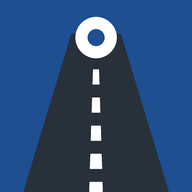
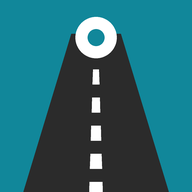
Add files via upload

diff --git a/index.html b/index.html
@@ -3,7 +3,7 @@
 <head>
 <meta charset="utf-8">
 <meta name="viewport" content="width=device-width, initial-scale=1, viewport-fit=cover">
-<meta name="theme-color" content="#1d4f91">
+<meta name="theme-color" content="#11879a">
 <meta name="apple-mobile-web-app-capable" content="yes">
 <meta name="mobile-web-app-capable" content="yes">
 <meta name="apple-mobile-web-app-status-bar-style" content="black-translucent">
@@ -11,27 +11,31 @@
 <link rel="manifest" href="manifest.webmanifest">
 <link rel="apple-touch-icon" href="icon-192.png">
 <link rel="icon" href="icon-192.png">
+<link rel="preconnect" href="https://fonts.googleapis.com">
+<link rel="preconnect" href="https://fonts.gstatic.com" crossorigin>
+<link href="https://fonts.googleapis.com/css2?family=Raleway:ital,wght@0,400;0,500;0,600;0,700;1,400&display=swap" rel="stylesheet">
 <title>Rittenregistratie</title>
 <style>
 :root{
-  --paper:#eef1f4; --card:#ffffff; --ink:#16202b; --muted:#5d6b78; --line:#d6dde4;
-  --sign:#1d4f91; --sign-ink:#ffffff; --sign-soft:#e2eaf5;
-  --odo-bg:#121a23; --odo-ink:#f4f7fa; --danger:#b3261e;
-  --r-lg:16px; --r-sm:10px;
+  --paper:#f4f7f8; --card:#ffffff; --ink:#2b2b2b; --muted:#6e6e6e; --line:#e2e7e9;
+  --sign:#11879a; --sign-ink:#ffffff; --sign-soft:#e2f1f3; --head:#11879a;
+  --danger:#b3261e; --shadow:0 2px 12px rgba(20,40,45,.09);
+  --r-lg:12px; --r-sm:10px;
   color-scheme:light dark;
 }
 @media (prefers-color-scheme:dark){
   :root{
-    --paper:#0f151c; --card:#18212b; --ink:#e6ebf0; --muted:#97a4b1; --line:#2a3644;
-    --sign:#5b8fd6; --sign-ink:#0b1420; --sign-soft:#1c2a3c;
-    --odo-bg:#05080c; --odo-ink:#f4f7fa; --danger:#ef7a72;
+    --paper:#0f1719; --card:#182326; --ink:#e7eced; --muted:#9db0b4; --line:#26363a;
+    --sign:#3fb0c1; --sign-ink:#08181b; --sign-soft:#16343a; --head:#5cc3d2;
+    --danger:#ef7a72; --shadow:0 2px 12px rgba(0,0,0,.35);
   }
 }
 *{box-sizing:border-box}
 html,body{margin:0;height:100%}
 body{
   background:var(--paper); color:var(--ink);
-  font:16px/1.45 system-ui,-apple-system,"Segoe UI",Roboto,sans-serif;
+  font:16px/1.5 "Raleway",system-ui,-apple-system,"Segoe UI",Roboto,sans-serif;
+  font-variant-numeric:lining-nums;
   -webkit-tap-highlight-color:transparent;
   padding-bottom:calc(78px + env(safe-area-inset-bottom,0px));
 }
@@ -41,46 +45,53 @@ button,input,select{font:inherit;color:inherit}
 /* Header met kilometerteller */
 header{
   background:var(--sign); color:var(--sign-ink);
-  padding:calc(14px + env(safe-area-inset-top,0px)) 18px 18px;
+  padding:calc(14px + env(safe-area-inset-top,0px)) 18px 14px;
 }
-header .top{display:flex;justify-content:space-between;align-items:baseline;gap:12px}
-header h1{margin:0;font-size:1.15rem;font-weight:700;letter-spacing:.01em}
-header .month{font-size:.9rem;opacity:.85}
-.odo{display:flex;align-items:flex-end;gap:10px;margin-top:12px}
-.odo .digits{display:flex;gap:3px}
-.odo .d{
-  background:var(--odo-bg);color:var(--odo-ink);
-  min-width:30px;height:44px;border-radius:5px;
-  display:grid;place-items:center;
-  font-size:1.7rem;font-weight:600;font-variant-numeric:tabular-nums;
-  box-shadow:inset 0 -10px 12px rgba(255,255,255,.06),inset 0 10px 12px rgba(0,0,0,.35);
-}
-.odo .d.dec{background:#f4f7fa;color:#121a23}
-.odo .unit{font-size:.95rem;padding-bottom:4px;opacity:.9}
+header{display:flex;align-items:center;justify-content:space-between;gap:12px}
+header img{height:42px;width:auto;display:block}
+header h1{margin:0;font-size:1.05rem;font-weight:600;opacity:.95}
 
 main{padding:16px;max-width:680px;margin:0 auto}
-h2{font-size:1.25rem;margin:4px 0 14px}
-h3{font-size:1rem;margin:0 0 8px}
+h2{font-size:1.45rem;font-weight:700;color:var(--head);margin:4px 0 14px}
+h3{font-size:1.02rem;font-weight:700;color:var(--head);margin:0 0 10px}
 .hint{color:var(--muted);font-size:.88rem;margin:6px 0 0}
 
 /* Rittenlijst */
-.monthhead{display:flex;justify-content:space-between;margin:20px 2px 8px;color:var(--muted);font-size:.9rem}
-.monthhead strong{color:var(--ink);font-variant-numeric:tabular-nums}
+.seg{display:grid;grid-template-columns:repeat(4,1fr);background:var(--card);box-shadow:var(--shadow);border-radius:var(--r-sm);padding:3px;gap:3px;margin-bottom:6px}
+.seg button{border:0;background:none;padding:9px 4px;border-radius:7px;font-weight:600;color:var(--muted);cursor:pointer}
+.seg button[aria-pressed="true"]{background:var(--sign);color:var(--sign-ink)}
+.grouphead{display:flex;justify-content:space-between;align-items:baseline;gap:10px;margin:18px 2px 8px}
+.grouphead .t{font-weight:700;color:var(--head)}
+.grouphead .s{color:var(--muted);font-size:.88rem;font-variant-numeric:tabular-nums;white-space:nowrap}
+.grouphead .s b{color:var(--ink)}
+details.group{background:var(--card);border-radius:var(--r-sm);box-shadow:var(--shadow);margin-bottom:10px}
+details.group > summary{list-style:none;cursor:pointer;padding:13px 14px;display:flex;justify-content:space-between;align-items:baseline;gap:10px}
+details.group > summary::-webkit-details-marker{display:none}
+details.group > summary .t{font-weight:700;color:var(--head)}
+details.group > summary .t::before{content:"\25B8";display:inline-block;width:1.1em;color:var(--muted);transition:transform .15s}
+details.group[open] > summary .t::before{transform:rotate(90deg)}
+details.group > summary .s{color:var(--muted);font-size:.88rem;font-variant-numeric:tabular-nums;white-space:nowrap}
+details.group > summary .s b{color:var(--ink);font-size:1rem}
+details.group .inner{padding:0 10px 4px}
+details.group .daylabel{color:var(--muted);font-size:.84rem;margin:10px 4px 6px}
+.periodtotal{display:flex;justify-content:space-between;color:var(--muted);font-size:.9rem;margin:10px 2px 0}
+.periodtotal b{color:var(--ink)}
+@media (prefers-reduced-motion:reduce){details.group > summary .t::before{transition:none}}
 .trip{
-  background:var(--card);border:1px solid var(--line);border-radius:var(--r-sm);
+  background:var(--card);border:0;border-radius:var(--r-sm);box-shadow:var(--shadow);
   padding:12px 14px;margin-bottom:8px;display:grid;grid-template-columns:1fr auto;gap:2px 12px;
   width:100%;text-align:left;cursor:pointer;
 }
 .trip .route{font-weight:600;overflow-wrap:anywhere}
 .trip .km{font-weight:700;font-variant-numeric:tabular-nums;white-space:nowrap}
 .trip .meta{color:var(--muted);font-size:.86rem;grid-column:1/-1;display:flex;justify-content:space-between;gap:8px}
-.trip .retour{border:0;background:none;color:var(--sign);font-weight:600;font-size:.86rem;padding:0;cursor:pointer}
+.trip .retour{border:0;background:none;color:var(--sign);font-weight:500;font-size:.86rem;padding:0;cursor:pointer;text-decoration:underline;text-underline-offset:2px}
 
 .empty{background:var(--card);border:1px dashed var(--line);border-radius:var(--r-lg);padding:20px}
 .empty p{margin:0 0 12px}
 
 /* Formulieren */
-.card{background:var(--card);border:1px solid var(--line);border-radius:var(--r-lg);padding:16px;margin-bottom:14px}
+.card{background:var(--card);border-radius:var(--r-lg);box-shadow:var(--shadow);padding:18px;margin-bottom:16px}
 label{display:block;font-size:.88rem;color:var(--muted);margin-bottom:12px}
 input,select{
   display:block;width:100%;margin-top:4px;padding:11px 12px;
@@ -92,7 +103,17 @@ input:focus,select:focus{border-color:var(--sign);outline:none}
 .row > label{flex:1}
 .row > button{margin-bottom:12px}
 .two{display:grid;grid-template-columns:1fr 1fr;gap:10px}
-.swap{display:block;margin:-4px 0 8px auto;border:0;background:none;color:var(--sign);font-weight:600;cursor:pointer;padding:4px 0}
+.formbar{
+  position:sticky;top:0;z-index:5;
+  background:var(--paper);
+  margin:-16px -16px 12px;padding:calc(12px + env(safe-area-inset-top,0px)) 16px 12px;
+  border-bottom:1px solid var(--line);
+  display:flex;justify-content:space-between;align-items:center;gap:10px;flex-wrap:wrap;
+}
+.formbar h2{margin:0}
+.formbar .actions{margin:0}
+.formbar .btn{padding:10px 14px;min-height:42px}
+.swap{display:block;margin:-4px 0 8px auto;border:0;background:none;color:var(--sign);font-weight:500;cursor:pointer;padding:4px 0;text-decoration:underline;text-underline-offset:2px}
 .actions{display:flex;gap:10px;flex-wrap:wrap;margin-top:6px}
 .btn{border:0;border-radius:var(--r-sm);padding:12px 18px;font-weight:600;cursor:pointer;min-height:46px}
 .primary{background:var(--sign);color:var(--sign-ink)}
@@ -103,12 +124,12 @@ input:focus,select:focus{border-color:var(--sign);outline:none}
 
 /* Klanten */
 .place{
-  background:var(--card);border:1px solid var(--line);border-radius:var(--r-sm);
+  background:var(--card);border:0;border-radius:var(--r-sm);box-shadow:var(--shadow);
   padding:12px 14px;margin-bottom:8px;width:100%;text-align:left;cursor:pointer;display:block
 }
-.place b{display:block}
+.place b{display:block;color:var(--head)}
 .place span{color:var(--muted);font-size:.88rem}
-.homecard{border-left:5px solid var(--sign)}
+.homecard{border-left:5px solid var(--sign) !important}
 
 /* Zoekresultaten */
 .results{list-style:none;margin:0 0 12px;padding:0}
@@ -139,7 +160,7 @@ nav button svg{width:24px;height:24px}
 nav button.active{color:var(--sign);font-weight:600}
 nav button.add .plus{
   width:44px;height:44px;border-radius:50%;background:var(--sign);color:var(--sign-ink);
-  display:grid;place-items:center;margin-top:-18px;box-shadow:0 4px 12px rgba(29,79,145,.35)
+  display:grid;place-items:center;margin-top:-18px;box-shadow:0 4px 12px rgba(17,135,154,.35)
 }
 
 .toast{
@@ -154,19 +175,32 @@ nav button.add .plus{
 <body>
 
 <header>
-  <div class="top"><h1>Rittenregistratie</h1><span class="month" id="hdrMonth"></span></div>
-  <div class="odo" aria-live="polite"><div class="digits" id="odo"></div><span class="unit">km zakelijk</span></div>
[1 lines of base64/hex data omitted]
+  <h1>Rittenregistratie</h1>
 </header>
 
 <main>
   <!-- RITTEN -->
   <section id="view-trips" class="view">
+    <div class="seg" role="group" aria-label="Indeling" id="groupSeg">
+      <button type="button" data-g="day">Dag</button>
+      <button type="button" data-g="week">Week</button>
+      <button type="button" data-g="month">Maand</button>
+      <button type="button" data-g="year">Jaar</button>
+    </div>
     <div id="tripList"></div>
   </section>
 
   <!-- NIEUWE / BEWERK RIT -->
   <section id="view-new" class="view" hidden>
-    <h2 id="formTitle">Nieuwe rit</h2>
+    <div class="formbar">
+      <h2 id="formTitle">Nieuwe rit</h2>
+      <div class="actions">
+        <button type="button" class="btn primary" id="saveTrip">Rit opslaan</button>
+        <button type="button" class="btn ghost" id="cancelTrip">Annuleren</button>
+        <button type="button" class="btn danger" id="delTrip" hidden>Verwijderen</button>
+      </div>
+    </div>
     <div class="card">
       <label>Datum<input type="date" id="fDate"></label>
       <label>Van<select id="fFrom"></select></label>
@@ -182,12 +216,7 @@ nav button.add .plus{
         <label>Eindstand teller<input id="fEnd" inputmode="numeric" autocomplete="off"></label>
       </div>
       <label>Doel van de rit<input id="fPurpose" placeholder="Bijv. installatie laptops"></label>
-      <label>Afwijkende route (optioneel)<input id="fDetour" placeholder="Bijv. omleiding A2"></label>
-      <div class="actions">
-        <button type="button" class="btn primary" id="saveTrip">Rit opslaan</button>
-        <button type="button" class="btn ghost" id="cancelTrip">Annuleren</button>
-        <button type="button" class="btn danger" id="delTrip" hidden>Rit verwijderen</button>
-      </div>
+      <label style="margin-bottom:0">Afwijkende route (optioneel)<input id="fDetour" placeholder="Bijv. omleiding A2"></label>
     </div>
   </section>
 
@@ -378,17 +407,6 @@ function forgetDistances(id){
   Object.keys(S.dist).forEach(k => { if(k.split('|').includes(id)) delete S.dist[k]; });
 }
 
-/* ---------- Header ---------- */
-function renderHeader(){
-  const ym = today().slice(0,7);
-  const total = S.trips.filter(t => t.date.startsWith(ym)).reduce((s,t) => s + t.km, 0);
-  $('#hdrMonth').textContent = monthName(ym);
-  const [whole, dec] = (Math.round(total*10)/10).toFixed(1).split('.');
-  const w = whole.padStart(4,'0');
-  $('#odo').innerHTML = [...w].map(c => `<span class="d">${c}</span>`).join('') + `<span class="d dec">${dec}</span>`;
-  $('#odo').setAttribute('aria-label', fmtKm(total) + ' kilometer deze maand');
-}
-
 /* ---------- Navigatie ---------- */
 function show(view){
   document.querySelectorAll('.view').forEach(v => v.hidden = v.id !== 'view-' + view);
@@ -403,9 +421,53 @@ document.querySelectorAll('nav button').forEach(b => b.onclick = () => {
 });
 
 /* ---------- Rittenlijst ---------- */
+function isoWeek(dateStr){
+  const d = new Date(dateStr + 'T12:00');
+  const day = (d.getDay() + 6) % 7;                 // maandag = 0
+  const thu = new Date(d); thu.setDate(d.getDate() - day + 3);
+  const year = thu.getFullYear();
+  const jan4 = new Date(year, 0, 4);
+  const week = 1 + Math.round(((thu - jan4) / 864e5 - 3 + ((jan4.getDay() + 6) % 7)) / 7);
+  const mon = new Date(d); mon.setDate(d.getDate() - day);
+  const sun = new Date(mon); sun.setDate(mon.getDate() + 6);
+  return { key: year + '-W' + String(week).padStart(2,'0'), week, year, mon, sun };
+}
+const shortDate = d => d.toLocaleDateString('nl-NL',{day:'numeric',month:'short'});
+function groupKey(date, g){
+  if(g === 'day') return date;
+  if(g === 'week') return isoWeek(date).key;
+  if(g === 'month') return date.slice(0,7);
+  return date.slice(0,4);
+}
+function groupLabel(key, g, sample){
+  if(g === 'day'){
+    const t = today(), y = new Date(Date.now() - 864e5);
+    y.setMinutes(y.getMinutes() - y.getTimezoneOffset());
+    const prefix = key === t ? 'Vandaag, ' : key === y.toISOString().slice(0,10) ? 'Gisteren, ' : '';
+    const opts = {weekday:'long',day:'numeric',month:'long'}; if(key.slice(0,4) !== t.slice(0,4)) opts.year = 'numeric';
+    return prefix + new Date(key + 'T12:00').toLocaleDateString('nl-NL',opts);
+  }
+  if(g === 'week'){ const w = isoWeek(sample); return `Week ${w.week}, ${w.year} (${shortDate(w.mon)} t/m ${shortDate(w.sun)})`; }
+  if(g === 'month') return monthName(key);
+  return String(key);
+}
+const kmSum = ts => ts.reduce((s,t) => s + t.km, 0);
+const countLabel = n => n + (n === 1 ? ' rit' : ' ritten');
+
+function tripHtml(t, showDate){
+  return `<div class="trip" role="button" tabindex="0" data-id="${t.id}">
+    <span class="route">${esc(t.fromName)} naar ${esc(t.toName)}</span>
+    <span class="km">${fmtKm(t.km)} km</span>
+    <span class="meta"><span>${showDate ? esc(dayLabel(t.date)) + (t.purpose ? ', ' : '') : ''}${esc(t.purpose)}</span>
+    <button type="button" class="retour" data-retour="${t.id}">Retour</button></span>
+  </div>`;
+}
+
 function renderTrips(){
-  renderHeader();
-  const el = $('#tripList');
+  const el = $('#tripList'), seg = $('#groupSeg');
+  const g = S.settings.groupBy || 'day';
+  seg.querySelectorAll('button').forEach(b => b.setAttribute('aria-pressed', String(b.dataset.g === g)));
+  seg.hidden = !S.trips.length;
   if(!home()){
     el.innerHTML = `<div class="empty"><p><b>Begin met je thuisadres.</b> Daarna voeg je klanten toe en kun je ritten registreren.</p>
       <button type="button" class="btn primary" id="goHome">Thuisadres instellen</button></div>`;
@@ -418,18 +480,28 @@ function renderTrips(){
     $('#goFirst').onclick = () => clients().length ? openTripForm() : openPlaceDlg(null,false);
     return;
   }
-  const groups = {};
-  sortedTrips().reverse().forEach(t => (groups[t.date.slice(0,7)] ||= []).push(t));
-  el.innerHTML = Object.entries(groups).map(([ym, ts]) => {
-    const sum = ts.reduce((s,t) => s + t.km, 0);
-    return `<div class="monthhead"><span>${esc(monthName(ym))}</span><strong>${fmtKm(sum)} km</strong></div>` +
-      ts.map(t => `<div class="trip" role="button" tabindex="0" data-id="${t.id}">
-        <span class="route">${esc(t.fromName)} naar ${esc(t.toName)}</span>
-        <span class="km">${fmtKm(t.km)} km</span>
-        <span class="meta"><span>${esc(dayLabel(t.date))}${t.purpose ? ', ' + esc(t.purpose) : ''}</span>
-        <button type="button" class="retour" data-retour="${t.id}">Retour</button></span>
-      </div>`).join('');
-  }).join('');
+  const trips = sortedTrips().reverse();
+  const groups = new Map();
+  trips.forEach(t => { const k = groupKey(t.date, g); if(!groups.has(k)) groups.set(k, []); groups.get(k).push(t); });
+
+  if(g === 'day'){
+    el.innerHTML = [...groups].map(([k, ts]) =>
+      `<div class="grouphead"><span class="t">${esc(groupLabel(k, g))}</span><span class="s">${countLabel(ts.length)}, <b>${fmtKm(kmSum(ts))} km</b></span></div>` +
+      ts.slice().reverse().map(t => tripHtml(t, false)).join('')
+    ).join('');
+  }else{
+    const curKey = groupKey(today(), g);
+    el.innerHTML = [...groups].map(([k, ts]) => {
+      const days = new Map();
+      ts.forEach(t => { if(!days.has(t.date)) days.set(t.date, []); days.get(t.date).push(t); });
+      const inner = [...days].map(([d, dts]) =>
+        `<div class="daylabel">${esc(dayLabel(d))}, ${fmtKm(kmSum(dts))} km</div>` + dts.slice().reverse().map(t => tripHtml(t, false)).join('')
+      ).join('');
+      return `<details class="group"${k === curKey ? ' open' : ''}>
+        <summary><span class="t">${esc(groupLabel(k, g, ts[0].date))}</span><span class="s">${countLabel(ts.length)}, <b>${fmtKm(kmSum(ts))} km</b></span></summary>
+        <div class="inner">${inner}</div></details>`;
+    }).join('');
+  }
   el.querySelectorAll('.trip').forEach(n => {
     const open = e => { if(e.target.closest('[data-retour]')) return; openTripForm(S.trips.find(t => t.id === n.dataset.id)); };
     n.onclick = open;
@@ -441,6 +513,9 @@ function renderTrips(){
     openTripForm(null, { fromId:t.toId, toId:t.fromId, date:t.date, purpose:t.purpose });
   });
 }
+$('#groupSeg').querySelectorAll('button').forEach(b => b.onclick = () => {
+  S.settings.groupBy = b.dataset.g; save(); renderTrips();
+});
 
 /* ---------- Ritformulier ---------- */
 let editing = null, kmAuto = true;
@@ -613,7 +688,7 @@ $('#pdSave').onclick = () => {
     S.places.push({ id: pd.isHome ? 'home' : uid(), name, isHome: pd.isHome, ...pd.chosen });
   }
   save(); dlg.close(); toast(pd.isHome ? 'Thuisadres opgeslagen' : 'Klant opgeslagen');
-  renderClients(); renderHeader();
+  renderClients();
 };
 $('#pdDelete').onclick = () => {
   if(!pd.place || !confirm(`${pd.place.name} verwijderen? Bestaande ritten blijven bewaard.`)) return;

diff --git a/sw.js b/sw.js
@@ -1,5 +1,6 @@
 // Verhoog dit nummer bij elke update van de app
-const CACHE = 'ritten-v1';
+const CACHE = 'ritten-v4';
+const FONTS = 'ritten-fonts';
 const ASSETS = ['./', './index.html', './manifest.webmanifest', './icon-192.png', './icon-512.png'];
 
 self.addEventListener('install', e => {
@@ -7,13 +8,18 @@ self.addEventListener('install', e => {
   self.skipWaiting();
 });
 self.addEventListener('activate', e => {
-  e.waitUntil(caches.keys().then(ks => Promise.all(ks.filter(k => k !== CACHE).map(k => caches.delete(k)))));
+  e.waitUntil(caches.keys().then(ks => Promise.all(ks.filter(k => k !== CACHE && k !== FONTS).map(k => caches.delete(k)))));
   self.clients.claim();
 });
 // Eigen bestanden: eerst netwerk (zodat updates doorkomen), anders uit cache.
 // Externe diensten (zoeken, routes) gaan altijd direct naar het netwerk.
 self.addEventListener('fetch', e => {
   const u = new URL(e.request.url);
+  // Lettertype (Raleway): eenmalig ophalen en bewaren, zodat het ook offline werkt
+  if (u.host === 'fonts.googleapis.com' || u.host === 'fonts.gstatic.com') {
+    e.respondWith(caches.open(FONTS).then(c => c.match(e.request).then(m => m || fetch(e.request).then(r => { c.put(e.request, r.clone()); return r; }))));
+    return;
+  }
   if (e.request.method !== 'GET' || u.origin !== location.origin) return;
   e.respondWith(
     fetch(e.request)
